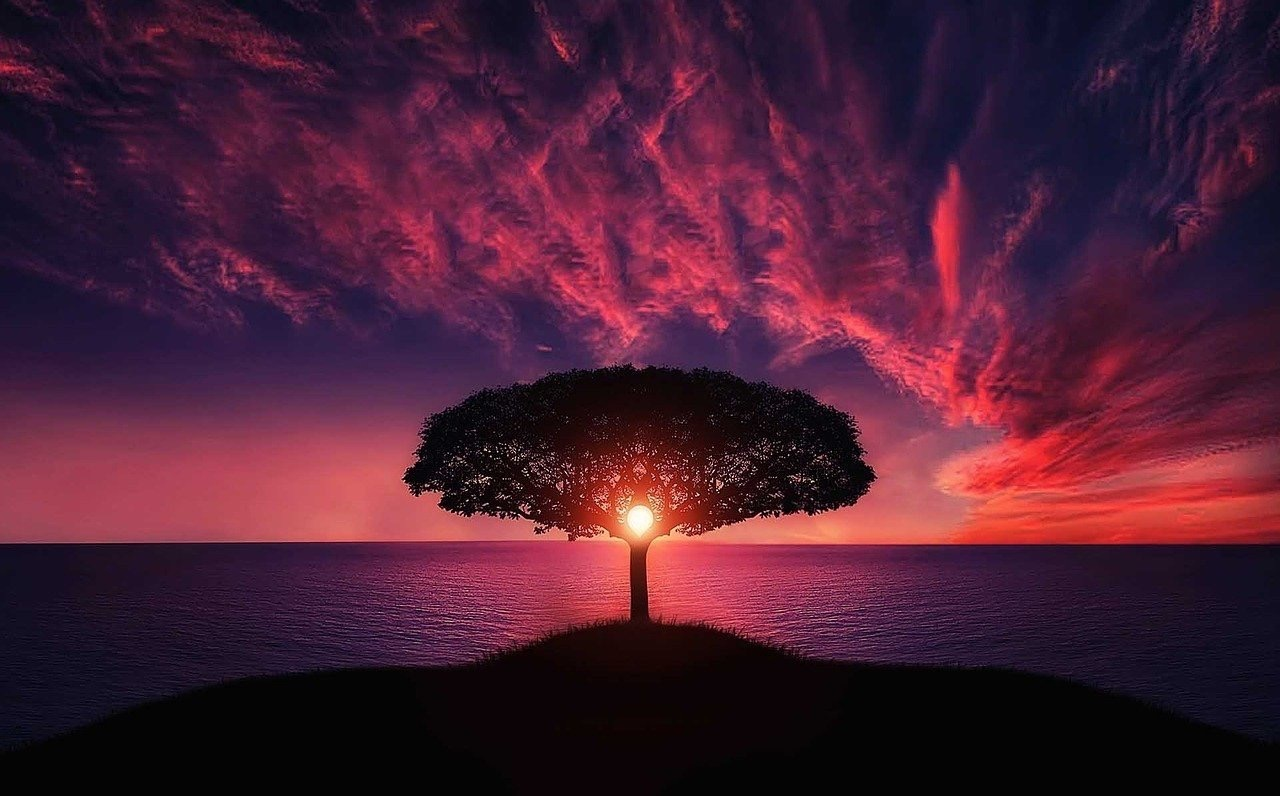
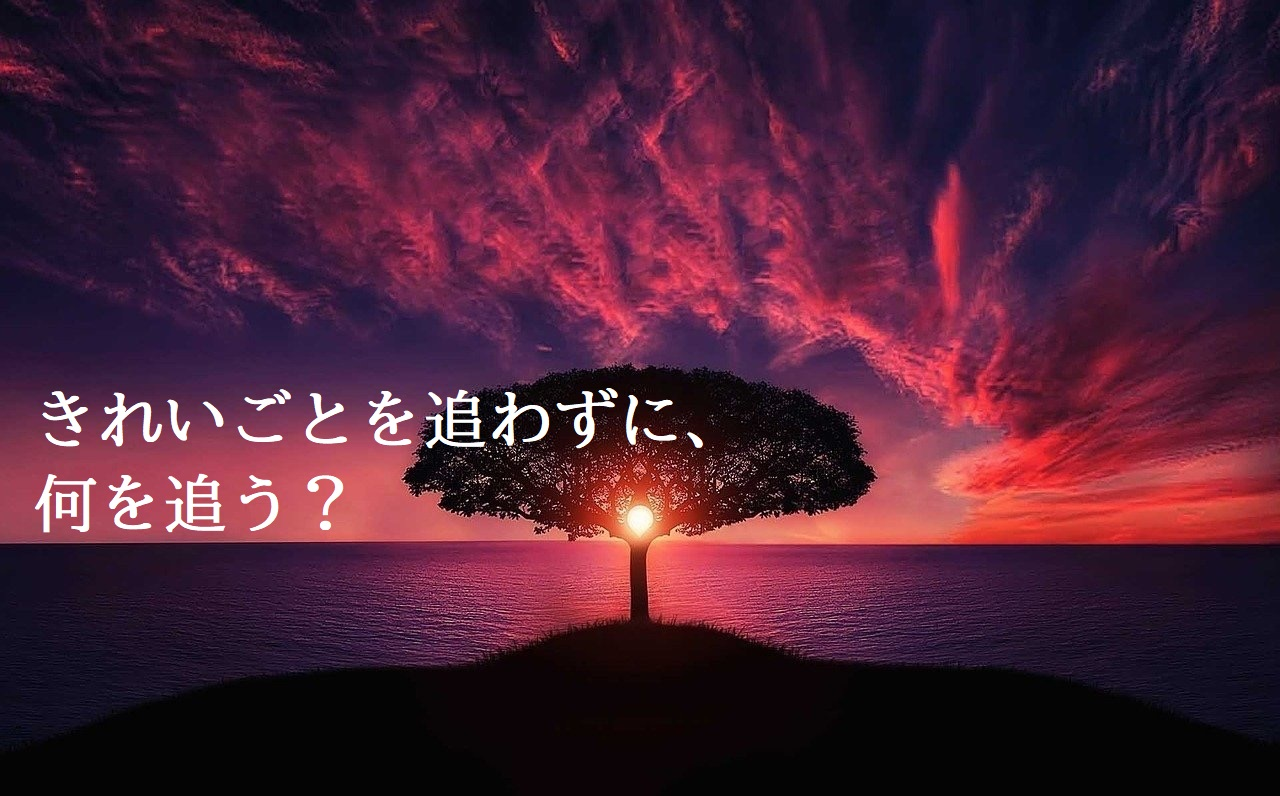
9/16

Changed region(s): [[0.1875, 0.4824, 0.5625, 0.5729], [0.0312, 0.603, 0.2812, 0.6633], [0.0312, 0.4824, 0.1875, 0.5729]]

diff --git a/css/TOP.css b/css/TOP.css
@@ -10,8 +10,12 @@ header {
   width: 100%;
   padding: 0;
   top: 0;
-  background-image: url(../img/IMG_2108.JPG);
-  background-size: 100%;
+  background-image: url(../img/IMG_2108.png);
+  /* background-size: 100%; */
+  background-repeat: no-repeat;
+  background-position: center center;
+  height: 100vh;
+  background-size: cover;;
 }
 
 .title img {
@@ -444,4 +448,127 @@ nav ul li:not(:first-child) {
   text-align: center;
   color: #fff;
   font-size: 16px;
+}
+
+/*************スマホ*************/
+
+@media screen and (max-width:900px) {
+  .title {
+    padding-top: 10px;
+  }
+
+  .title img {
+    width: 200px;
+  }
+
+  .nav-menu {
+    display: none;
+    /*ハンバーガーメニューにする*/
+  }
+
+  .message {
+    font-size: 5.5vw;
+  }
+
+  /********explain***********/
+
+  .explain_message {
+    font-size: 3.7vw;
+  }
+
+  .explain_box a {
+    font-size: 1.7vw;
+  }
+
+  /**********Service*********/
+
+  .serv {
+    padding-top: 40px;
+    padding-bottom: 40px;
+  }
+
+  .serv_title {
+    font-size: 50px;
+  }
+
+  .serv p {
+    font-size: 12px;
+  }
+
+  .serv_element {
+    /* display: block; */
+    margin: auto 15%;
+  }
+
+  .serv_element img {
+    width: 100%;
+    margin: 0 auto auto 0;
+  }
+
+  .serv_exp {
+    width: 100%;
+  }
+
+  .serv_exp h3 {
+    padding-top: 30px;
+  }
+
+  .serv_exp p {
+    padding: 0%;
+  }
+
+  .serv_box a {
+    font-size: 1.5vw;
+  }
+
+  /**********Media*********/
+
+  .media {
+    padding-top: 40px;
+    padding-bottom: 40px;
+  }
+
+  .media_title {
+    font-size: 50px;
+  }
+
+  .media_element {
+    /* display: block; */
+    margin: auto 15%;
+  }
+
+  .media_exp {
+    margin: 30px auto;
+  }
+
+  .media_element img {
+    width: 100%;
+  }
+
+  .media_box a {
+    font-size: 1.5vw;
+  }
+
+  .menu {
+    font-size: 3px;
+  }
+
+  .about {
+    width: fit-content;
+  }
+
+  .service {
+    width: fit-content;
+  }
+
+  .news {
+    width: fit-content;
+  }
+
+  /************fotter*****************/
+
+  .Footer-Inner-List-Item {
+    display: block;
+    margin-bottom: 5px;
+  }
 }

diff --git a/css/SERVICE.css b/css/SERVICE.css
@@ -279,3 +279,76 @@ main h2 {
     color: #fff;
     font-size: 16px;
 }
+
+@media screen and (max-width:900px) {
+  header h1 {
+      font-size: 20px;
+  }
+
+  main h2 {
+      padding-top: 50px;
+      text-align: center;
+  }
+
+  .title {
+      font-size: 22px;
+      margin: auto 5%;
+  }
+
+  .what_message {
+      margin: 30px 15%;
+  }
+
+  .what_message p {
+      font-family: 'Zen Kaku Gothic New', sans-serif;
+      font-size: 18px;
+  }
+
+  .what_img img {
+      margin-top: 40px;
+      text-align: center;
+      width: 100%;
+  }
+
+  .schedule_message {
+      margin: 50px 15%;
+  }
+
+  .schedule_message p {
+      font-family: 'Zen Kaku Gothic New', sans-serif;
+      font-size: 18px;
+  }
+
+  .schedule_img img {
+      margin-top: 40px;
+      text-align: center;
+      width: 100%;
+  }
+
+  .when_message {
+      margin: 50px 15%;
+  }
+
+  .when_message p {
+      font-family: 'Zen Kaku Gothic New', sans-serif;
+      font-size: 18px;
+  }
+
+  .when_img img {
+      margin-top: 20px;
+      text-align: center;
+      width: 100%;
+      height: auto;
+  }
+
+  .contact_student {
+      width: fit-content;
+  }
+
+  /**********footer*********/
+
+  .Footer-Inner-List-Item {
+      display: block;
+      margin-bottom: 5px;
+  }
+}

diff --git a/TOP.html b/TOP.html
@@ -7,6 +7,7 @@
     <meta name="viewport" content="width=device-width, initial-scale=1.0">
     <title>TOP</title>
     <link rel="stylesheet" href="css/TOP.css">
+    <link href="https://fonts.googleapis.com/icon?family=Material+Icons" rel="stylesheet">
 </head>
 
 <body>
@@ -24,16 +25,18 @@
                 </ul>
             </nav>
         </div>
+        
         <div class="message">
-            <!--検索のひっかかり方的にh1で良い？-->
-            <!--句点追加-->
+            <!-- 検索のひっかかり方的にh1で良い？
+            句点追加 -->
             <p>
                 <br>きれいごとを追わずに、
-                <br>何を追う。
+                <br>何を追う?
             </p>
         </div>
 
     </header>
+  
     <main>
         <div class="explain">
             <!--見出しタグで良い？-->
@@ -142,6 +145,8 @@
             </div>
         </div>
     </footer>
+    <script src="menu.js"></script>
 </body>
+
 
 </html>
